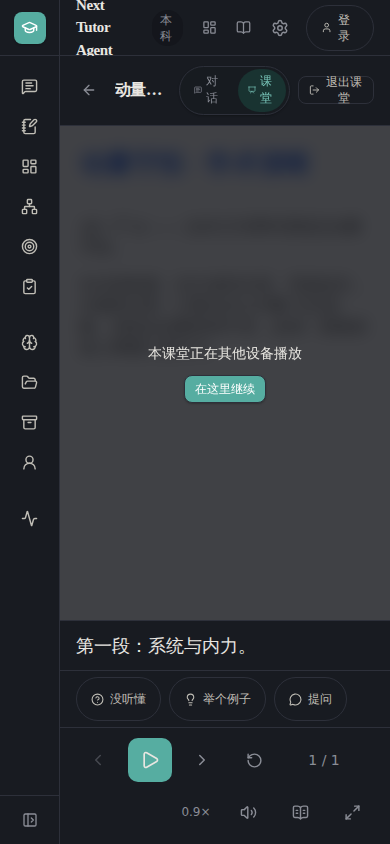
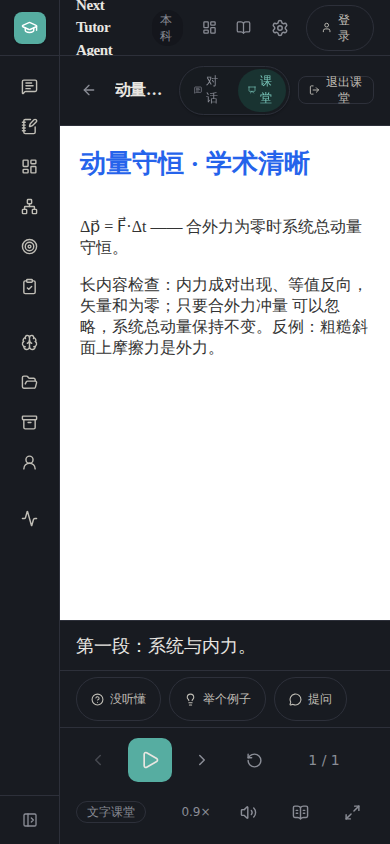
classroom: clarify playback takeover UX with per-tab client id
- client_id 改为每标签页 sessionStorage 持久随机 ID（刷新沿用、新标签页/其他设备不同），lease 接管判定不再受 useId 撞号影响（§5.4/§18.G 双标签互斥真正成立）
- suspended 遮罩分流：lease_conflict 显示「其他设备或标签页」+ 接管说明 + 一键继续；初始化失败显示「课堂加载失败，请重试」，不再把网络/后端重启误报成其他设备
- visual spec 补 lease mock（此前缺 mock 使所有主题截图被 suspended 遮罩挡住而未察觉）并新增接管遮罩浅/深/窄屏视觉用例；resume spec 增接管与加载失败两用例

diff --git a/frontend/e2e/classroom-resume.spec.ts b/frontend/e2e/classroom-resume.spec.ts
@@ -2,7 +2,9 @@
  *
  * - 刷新恢复：paused run 游标即上次位置；恢复播放必须用户手势
  *   （进入页面不发音频合成请求）；
- * - lease 过期/接管：POST lease 成功后可播放；
+ * - lease 过期/接管：POST lease 成功后可播放；他端持有时显示接管遮罩
+ *   （含说明文案与「在这里继续」），同标签页刷新沿用同一 client_id；
+ * - run 加载失败：显示重试提示，不误报“其他设备播放”；
  * - 进度上报失败（网络断开）：本地播放不受影响，字幕照常推进；
  * - pagehide：进度立即 flush（keepalive PUT）。
  */
@@ -44,11 +46,13 @@ interface ResumeHooks {
   progressCalls: { action: string; keepalive: boolean }[];
   progressFailures: number;
   progressOk: number;
+  leaseAcquires: { client_id: string; takeover: boolean }[];
 }
 
 async function routeResume(
   page: Page, hooks: ResumeHooks,
-  opts: { cursorSeg?: number } = {},
+  opts: { cursorSeg?: number; heldLease?: string;
+          acquireConflict?: boolean; runGetError?: boolean } = {},
 ): Promise<void> {
   const wav = tinyWav();
   const cursorSeg = opts.cursorSeg ?? 1;
@@ -105,6 +109,11 @@ async function routeResume(
         body: "<!doctype html><html><body><div id='v'></div></body></html>" });
     }
     if (path.endsWith(`/runs/${RUN}`) && method === "GET") {
+      if (opts.runGetError) {
+        return json({ error: { code: "storage_unavailable",
+          message: "temp", retryable: true, request_id: "r" } }, 500);
+      }
+      const heldBy = opts.heldLease ?? null;
       return json({
         run_id: RUN, lesson_id: LESSON, lesson_revision: 1,
         status: "paused", state_revision: 3,
@@ -119,13 +128,25 @@ async function routeResume(
         completed_kind: "",
         created_at: "2026-09-26T00:00:00Z",
         updated_at: "2026-09-26T00:00:00Z",
-        lease: { held: false, expired: true, client_id: null,
-                 lease_epoch: 0, expires_at: null },
+        lease: heldBy
+          ? { held: true, expired: false, client_id: heldBy,
+              lease_epoch: 5, expires_at: "2026-09-26T12:00:00Z" }
+          : { held: false, expired: true, client_id: null,
+              lease_epoch: 0, expires_at: null },
         cursor_index: cursorSeg - 1, segment_total: SEGS.length,
         tts_local_locked: false, tts_fallback_notified: false,
       });
     }
     if (path.endsWith(`/runs/${RUN}/lease`) && method === "POST") {
+      const body = route.request().postDataJSON() as {
+        client_id?: string; takeover?: boolean };
+      hooks.leaseAcquires.push({ client_id: String(body.client_id ?? ""),
+        takeover: Boolean(body.takeover) });
+      if (opts.acquireConflict) {
+        return json({ error: { code: "lease_conflict",
+          message: "另一设备正在播放本课堂", retryable: false,
+          request_id: "r" } }, 409);
+      }
       return json({ lease_epoch: 9,
                     expires_at: "2026-09-26T12:00:00Z" });
     }
@@ -173,7 +194,8 @@ test.beforeEach(async ({ page }) => {
 
 test("刷新恢复到上次游标且不自动发声", async ({ page }) => {
   const hooks: ResumeHooks = { audioRequests: 0, progressCalls: [],
-                               progressFailures: 0, progressOk: 0 };
+                               progressFailures: 0, progressOk: 0,
+                               leaseAcquires: [] };
   await routeResume(page, hooks, { cursorSeg: 2 });
   await page.goto(`/workspaces/${WS}/classroom/${LESSON}/learn/${RUN}`);
 
@@ -196,7 +218,8 @@ test("刷新恢复到上次游标且不自动发声", async ({ page }) => {
 
 test("进度上报失败不崩溃且重试收敛", async ({ page }) => {
   const hooks: ResumeHooks = { audioRequests: 0, progressCalls: [],
-                               progressFailures: 2, progressOk: 0 };
+                               progressFailures: 2, progressOk: 0,
+                               leaseAcquires: [] };
   await routeResume(page, hooks, { cursorSeg: 1 });
   await page.goto(`/workspaces/${WS}/classroom/${LESSON}/learn/${RUN}`);
   const caption = page.locator(
@@ -216,7 +239,8 @@ test("进度上报失败不崩溃且重试收敛", async ({ page }) => {
 
 test("pagehide 立即 flush 进度", async ({ page }) => {
   const hooks: ResumeHooks = { audioRequests: 0, progressCalls: [],
-                               progressFailures: 0, progressOk: 0 };
+                               progressFailures: 0, progressOk: 0,
+                               leaseAcquires: [] };
   await routeResume(page, hooks, { cursorSeg: 1 });
   await page.goto(`/workspaces/${WS}/classroom/${LESSON}/learn/${RUN}`);
   await page.click("button[aria-label='播放']");
@@ -229,4 +253,50 @@ test("pagehide 立即 flush 进度", async ({ page }) => {
   const flushed = hooks.progressCalls.filter((p) => p.keepalive
     || p.action === "pause" || p.action === "progress");
   expect(flushed.length).toBeGreaterThan(0);
+});
+
+test("lease 被他端持有时显示接管说明而非报错观感", async ({ page }) => {
+  const hooks: ResumeHooks = { audioRequests: 0, progressCalls: [],
+                               progressFailures: 0, progressOk: 0,
+                               leaseAcquires: [] };
+  await routeResume(page, hooks, { cursorSeg: 1,
+    heldLease: "cl-other-device-0001", acquireConflict: true });
+  await page.goto(`/workspaces/${WS}/classroom/${LESSON}/learn/${RUN}`);
+
+  // 接管遮罩：说明是“其他设备或标签页”+ 一键接管，而不是含糊的故障
+  await expect(page.getByText("本课正在你的其他设备或标签页播放"))
+    .toBeVisible({ timeout: 10_000 });
+  await expect(page.getByText("只有一个播放控制者")).toBeVisible();
+  await expect(page.getByRole("button", { name: "在这里继续" }))
+    .toBeVisible();
+  await expect(page.getByText("课堂加载失败")).toHaveCount(0);
+
+  // 初始化按“他端持有”自动请求接管，client_id 是规范随机 id
+  expect(hooks.leaseAcquires.length).toBeGreaterThan(0);
+  expect(hooks.leaseAcquires[0].takeover).toBe(true);
+  expect(hooks.leaseAcquires[0].client_id)
+    .toMatch(/^cl-[A-Za-z0-9-]{6,61}$/);
+
+  // 刷新（=「在这里继续」的行为）：同一标签页沿用同一 client_id 再接管
+  await page.reload();
+  await expect(page.getByText("本课正在你的其他设备或标签页播放"))
+    .toBeVisible({ timeout: 10_000 });
+  expect(hooks.leaseAcquires.length).toBeGreaterThan(1);
+  expect(hooks.leaseAcquires[1].client_id)
+    .toBe(hooks.leaseAcquires[0].client_id);
+  expect(hooks.leaseAcquires[1].takeover).toBe(true);
+});
+
+test("run 加载失败显示重试而非误报其他设备", async ({ page }) => {
+  const hooks: ResumeHooks = { audioRequests: 0, progressCalls: [],
+                               progressFailures: 0, progressOk: 0,
+                               leaseAcquires: [] };
+  await routeResume(page, hooks, { cursorSeg: 1, runGetError: true });
+  await page.goto(`/workspaces/${WS}/classroom/${LESSON}/learn/${RUN}`);
+
+  await expect(page.getByText("课堂加载失败，请重试"))
+    .toBeVisible({ timeout: 10_000 });
+  await expect(page.getByRole("button", { name: "重试" })).toBeVisible();
+  await expect(page.getByText("本课正在你的其他设备或标签页播放"))
+    .toHaveCount(0);
 });

diff --git a/frontend/e2e/classroom-visual.spec.ts b/frontend/e2e/classroom-visual.spec.ts
@@ -42,7 +42,10 @@ p.onmessage=(m)=>{if(m.data&&m.data.type==="goto_page")
 </body></html>`;
 }
 
-async function routeVisual(page: Page, theme: string): Promise<void> {
+async function routeVisual(
+  page: Page, theme: string,
+  opts: { heldLease?: string; acquireConflict?: boolean } = {},
+): Promise<void> {
   const t = THEMES.find((x) => x.id === theme) ?? THEMES[0];
   await page.route("**/api/v1/**", async (route: Route) => {
     const path = new URL(route.request().url()).pathname;
@@ -104,11 +107,29 @@ async function routeVisual(page: Page, theme: string): Promise<void> {
         qa_session_id: null, visited_slide_count: 1, completed_kind: "",
         created_at: "2026-09-26T00:00:00Z",
         updated_at: "2026-09-26T00:00:00Z",
-        lease: { held: false, expired: true, client_id: null,
-                 lease_epoch: 0, expires_at: null },
+        lease: opts.heldLease
+          ? { held: true, expired: false, client_id: opts.heldLease,
+              lease_epoch: 5, expires_at: "2026-09-26T12:00:00Z" }
+          : { held: false, expired: true, client_id: null,
+              lease_epoch: 0, expires_at: null },
         cursor_index: 0, segment_total: 1,
         tts_local_locked: false, tts_fallback_notified: false,
       });
+    }
+    // 不 mock lease 会让初始化打到真实隔离后端 404，落入 catch-all
+    // 变成 suspended 遮罩（K01 主题截图曾被它挡住），必须显式成功。
+    if (path.endsWith(`/runs/${RUN}/lease`) && method === "POST") {
+      if (opts.acquireConflict) {
+        return json({ error: { code: "lease_conflict",
+          message: "另一设备正在播放本课堂", retryable: false,
+          request_id: "r" } }, 409);
+      }
+      return json({ lease_epoch: 9,
+                    expires_at: "2026-09-26T12:00:00Z" });
+    }
+    if (path.endsWith(`/runs/${RUN}/lease`) && method === "PUT") {
+      return json({ lease_epoch: 9,
+                    expires_at: "2026-09-26T12:00:00Z" });
     }
     if (path.endsWith(`/runs/${RUN}/progress`)) {
       return json({ state_revision: 4 });
@@ -131,6 +152,11 @@ async function openPlayer(page: Page, theme: string,
   await expect(page.locator(
     "section[aria-label='字幕'] p[aria-live='polite']"))
     .toContainText(SEG_TEXT, { timeout: 10_000 });
+  // lease 成功后不得出现接管遮罩（曾因缺 lease mock，主题截图全程被
+  // suspended 遮罩挡住而未被察觉）
+  await expect(page.getByText("本课正在你的其他设备或标签页播放"))
+    .toHaveCount(0);
+  await expect(page.getByText("课堂加载失败")).toHaveCount(0);
 }
 
 /** 控件条与课件舞台 bbox 不相交（±2px 容差）。 */
@@ -232,5 +258,40 @@ test.describe("课堂播放器视觉矩阵", () => {
         `theme ${THEMES[i].name} frame must differ from base theme`)
         .toBe(false);
     }
+  });
+});
+
+test.describe("播放接管遮罩视觉", () => {
+  fs.mkdirSync(SHOT_DIR, { recursive: true });
+
+  async function openSuspended(page: Page, dark: boolean): Promise<void> {
+    await loginViaStorage(page, "e2e-fake-token");
+    await page.addInitScript((isDark) => {
+      localStorage.setItem("edu-agent-theme", isDark ? "dark" : "light");
+    }, dark);
+    await routeVisual(page, "academic_clear",
+      { heldLease: "cl-other-device-0001", acquireConflict: true });
+    await page.goto(`/workspaces/${WS}/classroom/${LESSON}/learn/${RUN}`);
+    await expect(page.getByText("本课正在你的其他设备或标签页播放"))
+      .toBeVisible({ timeout: 10_000 });
+    await expect(page.getByRole("button", { name: "在这里继续" }))
+      .toBeVisible();
+  }
+
+  for (const dark of [false, true]) {
+    test(`接管遮罩 ${dark ? "深色" : "浅色"} 1440×900`, async ({ page }) => {
+      await page.setViewportSize({ width: 1440, height: 900 });
+      await openSuspended(page, dark);
+      await page.screenshot({
+        path: path.join(SHOT_DIR, `suspended-${dark ? "dark" : "light"}.png`) });
+    });
+  }
+
+  test("接管遮罩窄屏 390×844 说明与按钮完整可见", async ({ page }) => {
+    await page.setViewportSize({ width: 390, height: 844 });
+    await openSuspended(page, false);
+    await expect(page.getByText("只有一个播放控制者")).toBeVisible();
+    await page.screenshot({
+      path: path.join(SHOT_DIR, "suspended-390-light.png") });
   });
 });

diff --git a/frontend/src/app/(workspace)/workspaces/[workspaceId]/classroom/[lessonId]/learn/[runId]/page.tsx b/frontend/src/app/(workspace)/workspaces/[workspaceId]/classroom/[lessonId]/learn/[runId]/page.tsx
@@ -79,8 +79,11 @@ const PLAYER_STR = {
     "cls.sum.segments": "听过 %n / %t 段",
     "cls.sum.asked": "课堂提问 %n 次",
     "cls.sum.checkpoints": "随堂题已答 %n 道",
-    "cls.play.suspended": "本课堂正在其他设备播放",
+    "cls.play.suspended": "本课正在你的其他设备或标签页播放",
+    "cls.play.suspended.hint": "同一节课同一时间只有一个播放控制者；点击接管后，另一端会在数秒内自动暂停。",
     "cls.play.suspended.takeover": "在这里继续",
+    "cls.play.suspended.error": "课堂加载失败，请重试",
+    "cls.play.suspended.retry": "重试",
     "cls.play.ended": "本节课已完成",
     "cls.play.back.course": "返回课程",
     "cls.play.exit": "退出课堂", "cls.play.loading": "正在装载课堂…",
@@ -131,8 +134,11 @@ const PLAYER_STR = {
     "cls.sum.segments": "Listened %n of %t segments",
     "cls.sum.asked": "Asked %n questions",
     "cls.sum.checkpoints": "Answered %n checkpoints",
-    "cls.play.suspended": "This lesson is playing on another device",
+    "cls.play.suspended": "This lesson is playing on another device or tab",
+    "cls.play.suspended.hint": "Only one controller plays a lesson at a time; after you take over, the other side pauses within seconds.",
     "cls.play.suspended.takeover": "Continue here",
+    "cls.play.suspended.error": "Couldn't load this lesson, please retry",
+    "cls.play.suspended.retry": "Retry",
     "cls.play.ended": "Lesson completed",
     "cls.play.back.course": "Back to lesson",
     "cls.play.exit": "Exit lesson", "cls.play.loading": "Loading lesson…",
@@ -460,11 +466,22 @@ export default function LearnRunPage() {
             )}
 
             {suspended && (
-              <div className="absolute inset-0 z-10 flex flex-col items-center justify-center gap-3 bg-bg/80 backdrop-blur-sm">
-                <p className="text-sm text-fg">{ps("cls.play.suspended")}</p>
+              <div className="absolute inset-0 z-10 flex flex-col items-center justify-center gap-3 bg-bg/80 px-6 backdrop-blur-sm">
+                <p className="text-sm text-fg">
+                  {player.state.error
+                    ? ps("cls.play.suspended.error")
+                    : ps("cls.play.suspended")}
+                </p>
+                {!player.state.error && (
+                  <p className="max-w-sm text-center text-xs text-fg-secondary">
+                    {ps("cls.play.suspended.hint")}
+                  </p>
+                )}
                 <Button variant="primary" size="sm"
                         onClick={() => window.location.reload()}>
-                  {ps("cls.play.suspended.takeover")}
+                  {player.state.error
+                    ? ps("cls.play.suspended.retry")
+                    : ps("cls.play.suspended.takeover")}
                 </Button>
               </div>
             )}

diff --git a/frontend/src/lib/classroom/useClassroomPlayer.ts b/frontend/src/lib/classroom/useClassroomPlayer.ts
@@ -11,7 +11,7 @@
  */
 "use client";
 
-import { useCallback, useEffect, useId, useMemo, useRef, useState } from "react";
+import { useCallback, useEffect, useMemo, useRef, useState } from "react";
 import {
   acquireLease, ClassroomApiError, fetchClipBlobUrl, getRun,
   requestRunAudio, renewLease, releaseLease, updateProgress,
@@ -34,6 +34,34 @@ const PROGRESS_TICK_MS = 5_000;
 const POLL_BACKOFF_MS = [500, 1000, 2000];
 const POLL_MAX_MS = 60_000;
 const AUDIO_WINDOW = 3;   // 当前段+后2（§11.4）
+const CLIENT_ID_KEY = "edu-agent-classroom-client-id";
+const CLIENT_ID_RE = /^cl-[A-Za-z0-9-]{6,61}$/;  // 全长 9–64（后端约束）
+let fallbackClientId = "";
+
+/** 播放控制者标识（§5.4）：每个标签页一个、刷新后保持不变的随机 id。
+ * sessionStorage 按标签页隔离且关闭即弃——同标签页刷新沿用同一 id 无缝
+ * 续约，新标签页/其他设备得到不同 id，“接管判定 client_id 是否相同”由
+ * 此可靠。clientId 只在 effects 里进入请求，SSR 期间返回占位值不参与
+ * 水合。存储不可用（隐私模式）时退化为本次页面加载内的随机值。 */
+function playbackClientId(): string {
+  if (typeof window === "undefined") return "cl-ssr";
+  try {
+    let id = window.sessionStorage.getItem(CLIENT_ID_KEY) ?? "";
+    if (!CLIENT_ID_RE.test(id)) {
+      const uuid = typeof crypto !== "undefined" && crypto.randomUUID
+        ? crypto.randomUUID()
+        : `${Math.random().toString(36).slice(2, 12)}${Date.now().toString(36)}`;
+      id = `cl-${uuid}`;
+      window.sessionStorage.setItem(CLIENT_ID_KEY, id);
+    }
+    return id;
+  } catch {
+    if (!fallbackClientId) {
+      fallbackClientId = `cl-${Math.random().toString(36).slice(2, 14)}`;
+    }
+    return fallbackClientId;
+  }
+}
 
 export interface FlatSegment {
   seq: number;              // 全课 0-based
@@ -105,7 +133,7 @@ export function useClassroomPlayer(
   const [state, dispatch] = useState<PlayerState | null>(null);
   const [run, setRun] = useState<RunPublicExtra | null>(null);
   const [textMode, setTextMode] = useState(false);
-  const clientId = `cl-${useId().replace(/[^a-zA-Z0-9]/g, "")}`;
+  const clientId = useMemo(() => playbackClientId(), []);
 
   const runRef = useRef<RunPublicExtra | null>(null);
   const stateRef = useRef<PlayerState | null>(null);
